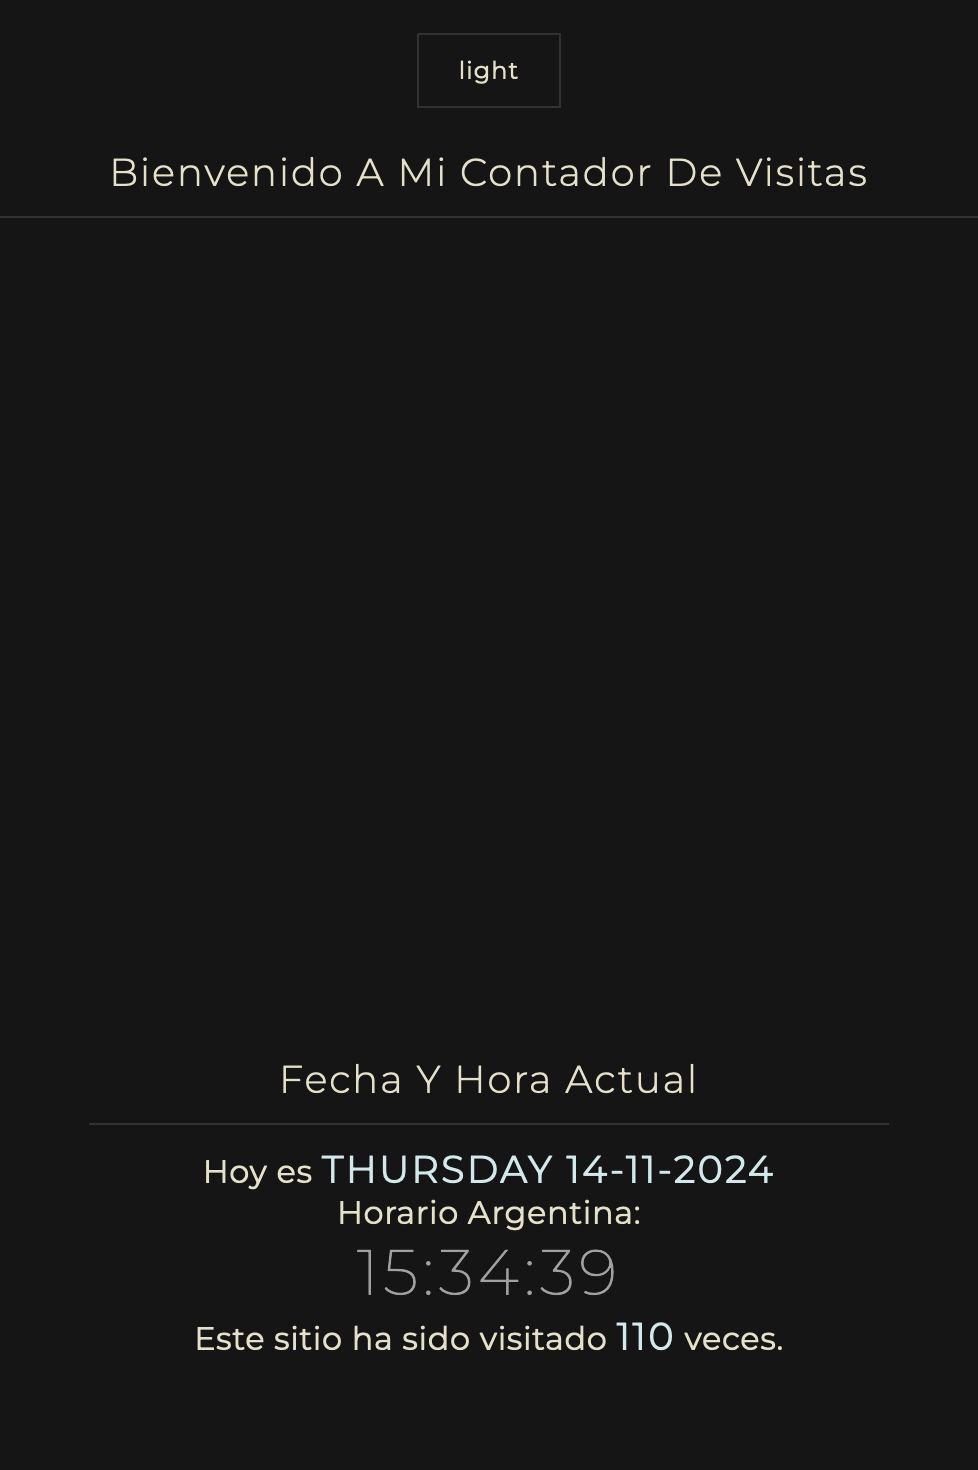
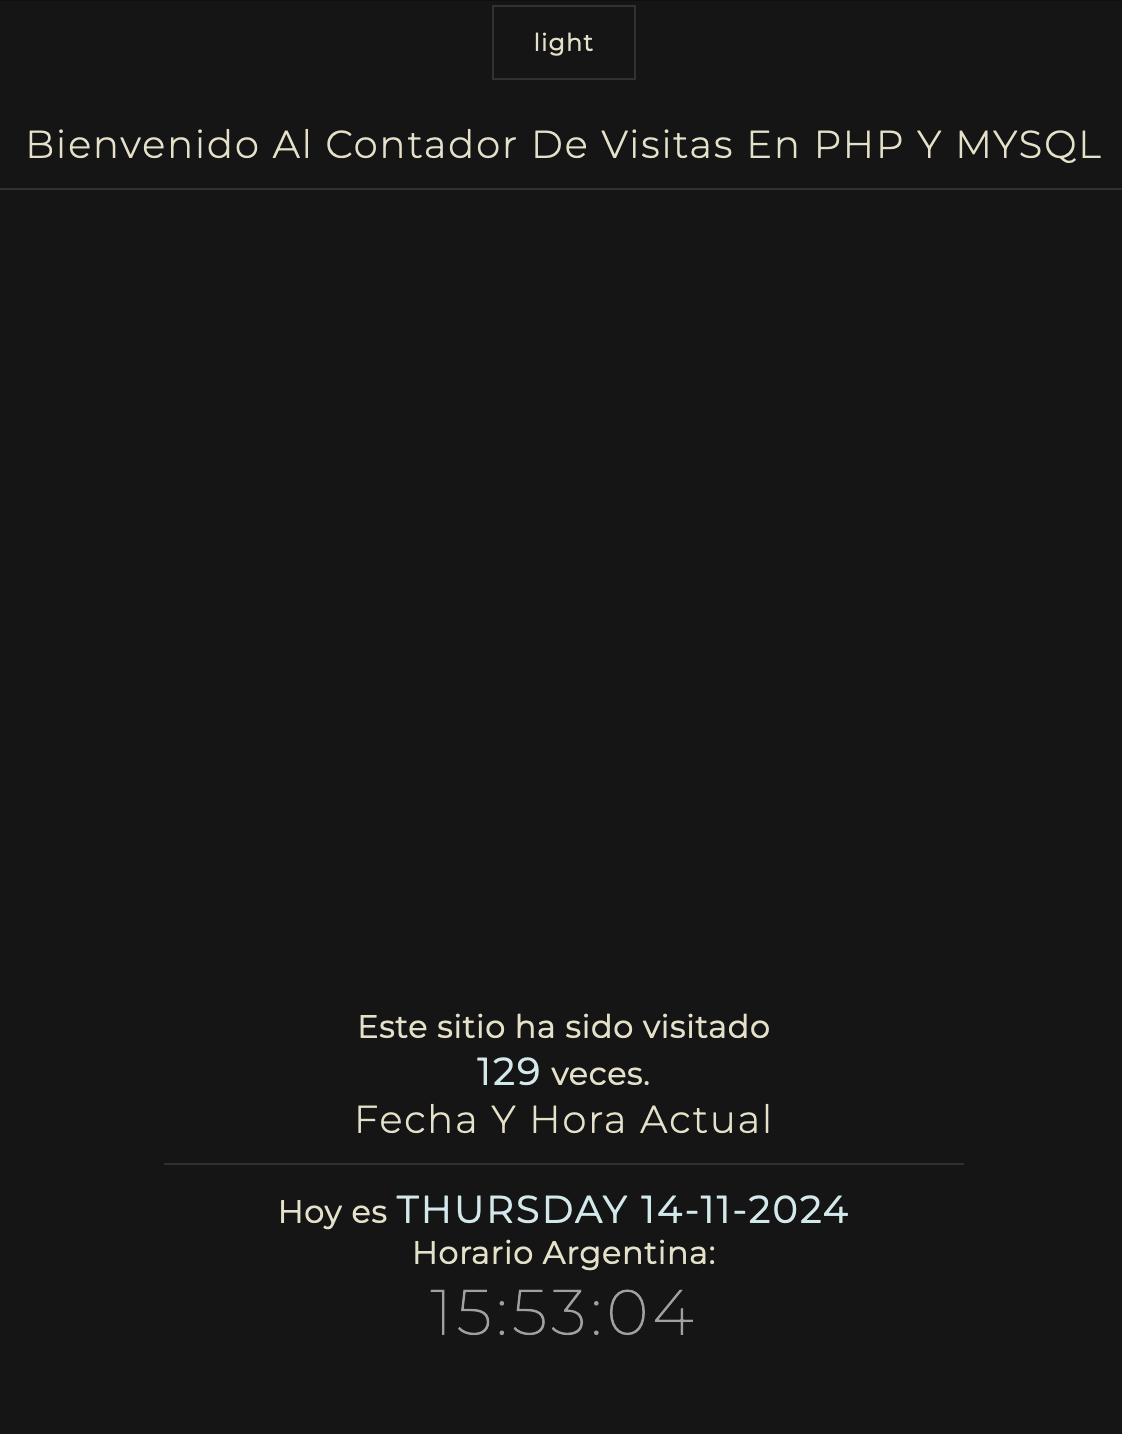
cambios finales

Changed region(s): [[0.184, 0.7057, 0.7975, 0.9205], [0.0307, 0.0921, 0.9816, 0.1534], [0.4601, 0.0, 0.5828, 0.0614]]

diff --git a/estilos.css b/estilos.css
@@ -134,4 +134,5 @@ h1 {
   color: var(--var-text-numero-visitantes);
   text-transform: uppercase;
   letter-spacing: 1px;
+  text-align: center;
 }

diff --git a/index.php b/index.php
@@ -16,15 +16,18 @@ require_once "conexionBD.php";
     <header>
         <button id="toggle-dark-mode">Light</button> <!-- Por defecto en modo oscuro -->
         <br>
-        <h1 class="text-center">Bienvenido a mi contador de visitas</h1>
+        <h1 class="text-center">Bienvenido al contador de Visitas en PHP y MYSQL</h1>
     </header>
 
     <main class="text-center">
+        <p class="text-center">Este sitio ha sido visitado</p>
+        <p><span class="numeroVisitantes"> <?php echo $numero_visitas; ?></span> veces.</p>
+        
+        <br><br>
         <h1>Fecha y Hora Actual</h1>
         <p>Hoy es <span class="numeroVisitantes"><?php echo "$dia_actual"; ?> <?php echo $fechaActual; ?></span></p>
         <p>Horario Argentina:</p>
         <div id="clock"></div>
-        <p>Este sitio ha sido visitado <span class="numeroVisitantes"> <?php echo $numero_visitas; ?></span> veces.</p>
         <!-- Aquí puedes agregar más contenido -->
     </main>
 

diff --git a/README.md b/README.md
@@ -31,5 +31,5 @@ La interfaz incluye:
 
 1. Clonar el repositorio: 
    ```bash
-   git clone https://github.com/usuario/contador-visitas.git
+   git clone https://github.com/ImageDesignStudio/contador-visitas.git
 
